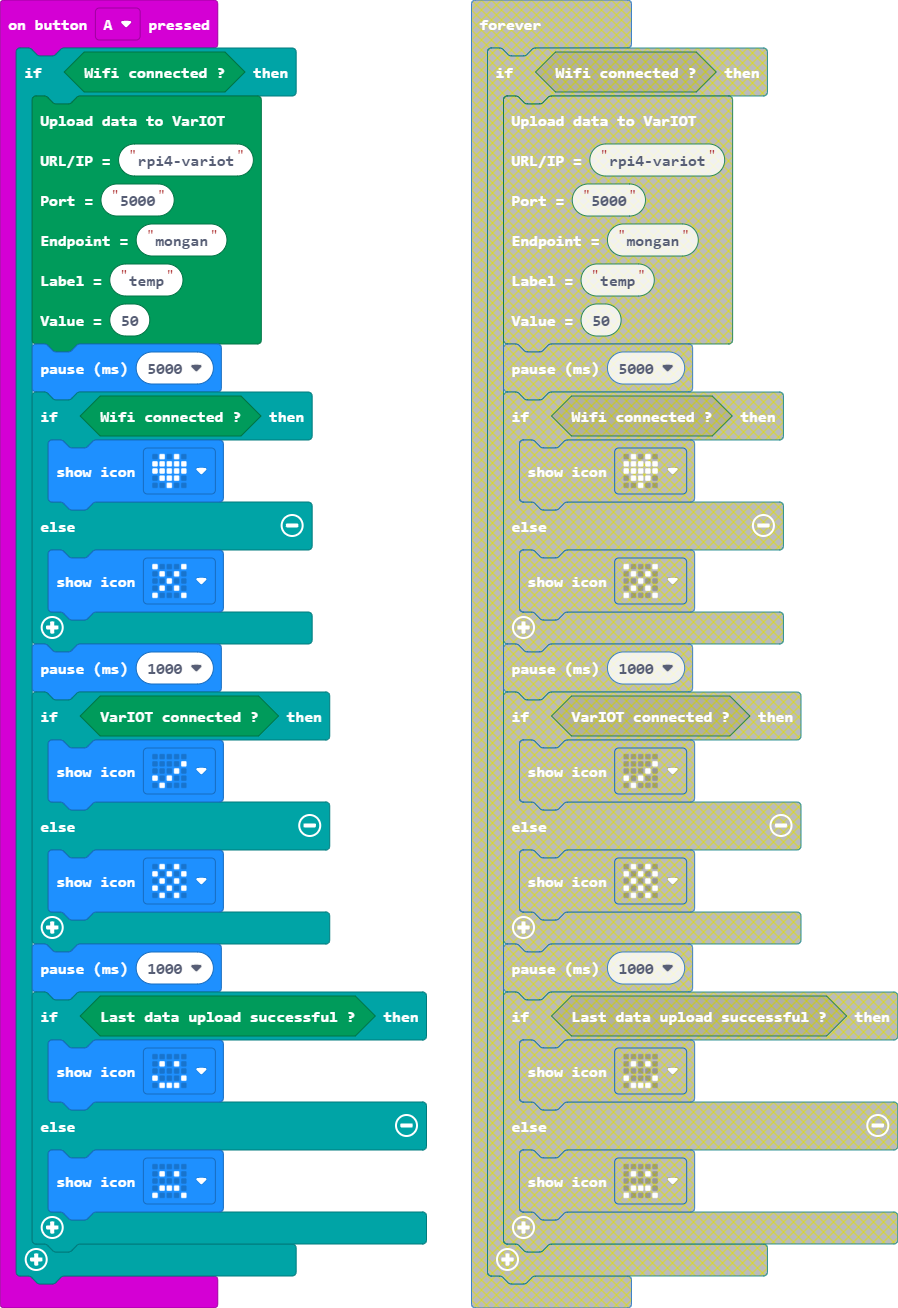
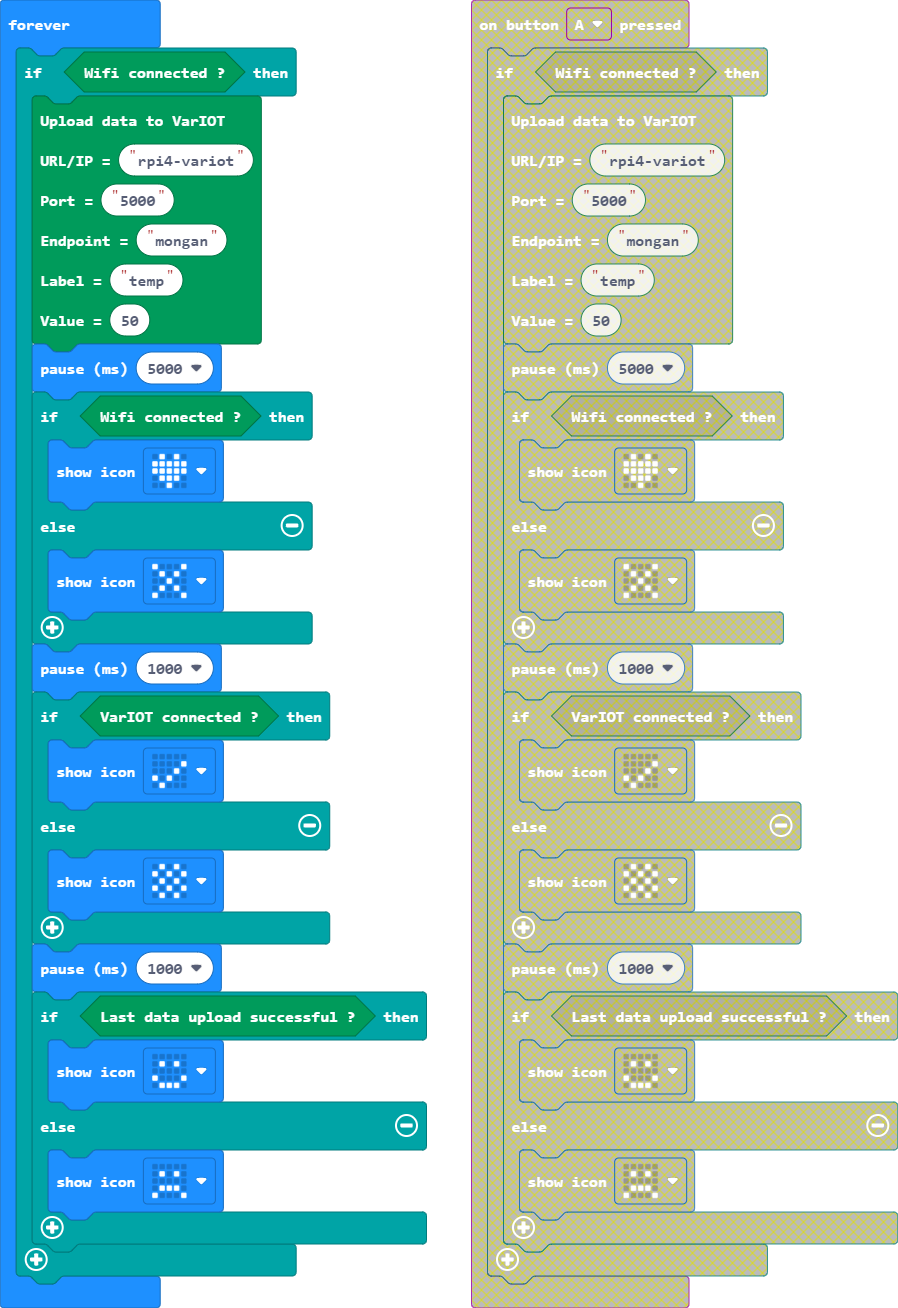
just run forever for testing

Changed region(s): [[0.0, 0.0, 0.2494, 1.0], [0.5301, 0.0, 0.7795, 0.0612], [0.686, 0.9786, 0.7795, 1.0]]

diff --git a/main.ts b/main.ts
@@ -1,4 +1,11 @@
-input.onButtonPressed(Button.A, function () {
+ESP8266VarIOT.connectWifi(
+SerialPin.P0,
+SerialPin.P1,
+BaudRate.BaudRate115200,
+"",
+""
+)
+basic.forever(function () {
     if (ESP8266VarIOT.isWifiConnected()) {
         ESP8266VarIOT.sendVarIOTTelemetry(
         "rpi4-variot",
@@ -27,10 +34,3 @@ input.onButtonPressed(Button.A, function () {
         }
     }
 })
-ESP8266VarIOT.connectWifi(
-SerialPin.P0,
-SerialPin.P1,
-BaudRate.BaudRate115200,
-"",
-""
-)
